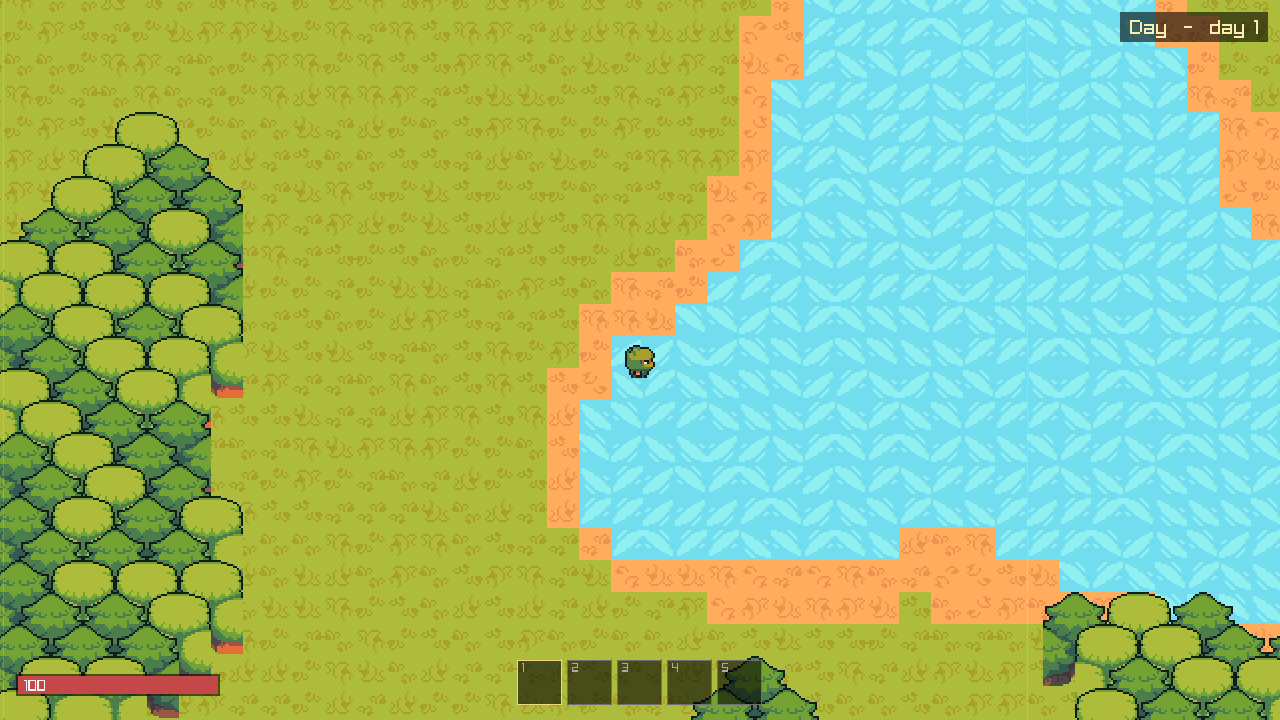
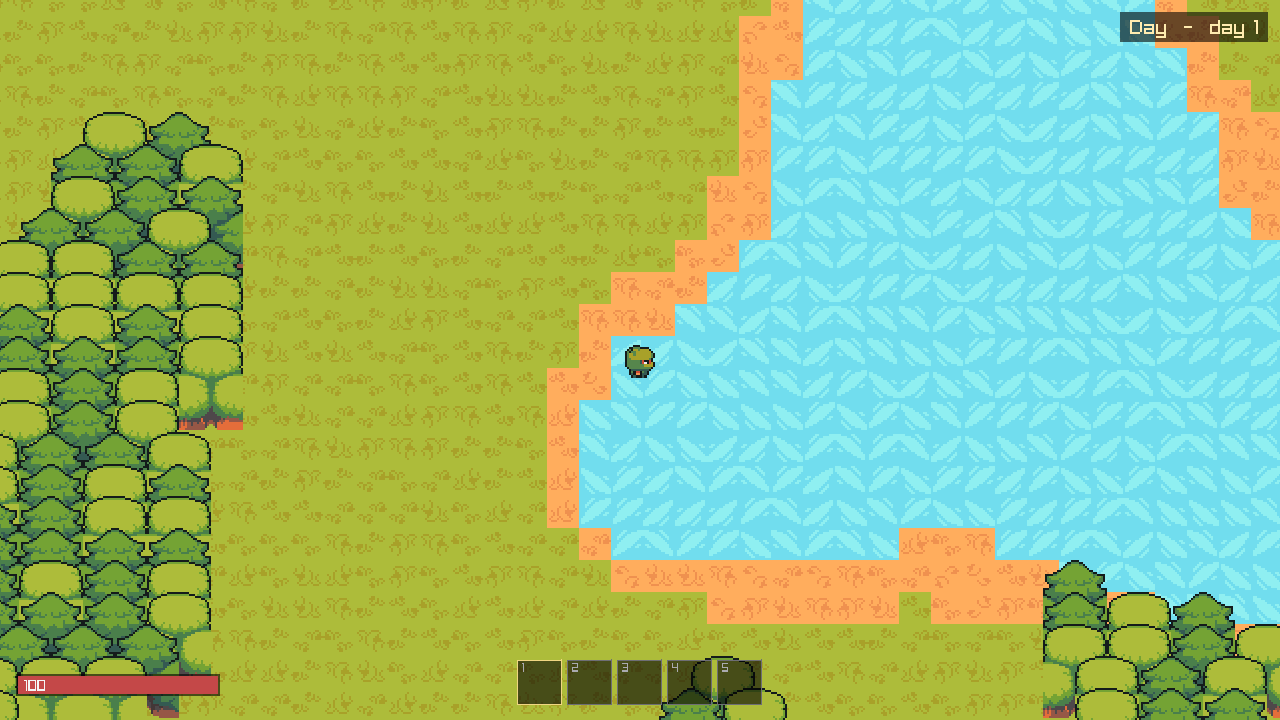
Fix tree placement: a checkerboard is not a left-edge test
Trees are 2 tiles wide and 3 tall, but terrain is per-tile, so a run of tree
tiles has to be resolved into whole trees. The previous rule drew one wherever
`(gx + gy)` was even. That is a checkerboard: trees landed diagonally on top
of each other, and every other tree tile drew nothing at all. Overlapping
canopies and trees sliced in half, exactly as reported.

A tile is now an anchor iff it is a tree and an even number of trees precede
it in its row, so a run of N tree tiles yields floor(N/2) trees that do not
overlap horizontally. Because terrain is a pure function, the test works for
tiles with no chunk view — so the pass runs over the visible rect expanded by
the sprite footprint (2 wide, 3 tall) and a tree anchored just off-screen
still paints the canopy that reaches into view. Previously those were clipped,
which is the other half of the "cut off" look.

Still wrong and not fixed here: the wall and fence are Kenney sprites in a
Ninja Adventure world, and the fence is a free-standing pole chain that does
not join the wall it is supposed to continue. That is the rest of the same
report and needs the building set migrated, not a placement fix.

diff --git a/src/render/raylib_bridge.cpp b/src/render/raylib_bridge.cpp
@@ -49,6 +49,28 @@ namespace {
     return Slot::kTerrainGrass;
 }
 
+// --- Tree placement -------------------------------------------------------------------------------
+// Trees in this pack are 2 tiles WIDE and 3 TALL, but terrain is per-tile, so a run of tree tiles
+// has to be resolved into whole trees. The first attempt drew one wherever `(gx + gy)` was even —
+// that is a CHECKERBOARD, not a left-edge test, so trees landed diagonally on top of each other and
+// every other tree tile drew nothing at all. That is the overlapping-and-sliced look.
+//
+// A tile is an anchor iff it is a tree and an EVEN number of trees precede it in its row, so a run
+// of N tree tiles yields floor(N/2) non-overlapping trees. Terrain is a pure function, so this can
+// be asked about any tile without a chunk view — including tiles just off-screen, which is what
+// stops canopies being clipped at the view edge.
+[[nodiscard]] bool tree_at(std::uint16_t map, int x, int y) {
+    if (x < 0 || y < 0 || x >= kMapTiles || y >= kMapTiles) return false;
+    return terrain_of(kWorldSeed, map, x, y) == Terrain::kTree;
+}
+
+[[nodiscard]] bool tree_anchor(std::uint16_t map, int x, int y) {
+    if (!tree_at(map, x, y)) return false;
+    int run = 0;
+    while (run < 64 && tree_at(map, x - 1 - run, y)) ++run;
+    return (run % 2) == 0;
+}
+
 [[nodiscard]] Anim anim_of(MobKind k) {
     switch (k) {
         case MobKind::kSlime: return Anim::kMobSlime;
@@ -281,32 +303,6 @@ void RaylibBridge::draw(const SnapshotBus& bus, const WorldStatus& status,
                     im.tile(base, gx, gy, WHITE, v & 3);
                 }
             }
-            // Trees, top-down within the chunk so a nearer tree's canopy overlaps the one behind it.
-            for (int ly = 0; ly < kChunkTiles; ++ly) {
-                const int gy = base_y + ly;
-                if (gy < min_ty - 1 || gy > max_ty) continue;
-                for (int lx = 0; lx < kChunkTiles; ++lx) {
-                    const int gx = base_x + lx;
-                    if (gx < min_tx || gx > max_tx) continue;
-                    if (static_cast<Terrain>(v->terrain[ly * kChunkTiles + lx]) != Terrain::kTree) {
-                        continue;
-                    }
-                    // Low bit picks the species, high bit mirrors it: four visually distinct trees
-                    // out of two sprites.
-                    // Only draw a tree on tiles where it is the LEFT of its 2-wide footprint, so
-                    // a run of tree tiles becomes a row of whole trees rather than overlapping
-                    // half-trees.
-                    if (((gx + gy) & 1) != 0) continue;
-                    const int tv = tile_variant(c.map, gx, gy);
-                    im.big((tv & 1) ? Big::kTreePine : Big::kTreeBroad, gx, gy);
-                }
-            }
-
-            // Chunk border — the demo's most important visual. Each outlined square is one actor,
-            // and once the world is distributed each will be labelled with the node hosting it.
-            DrawRectangleLines(base_x * kTilePx, base_y * kTilePx, kChunkTiles * kTilePx,
-                               kChunkTiles * kTilePx, Color{255, 255, 255, 40});
-
             for (const Crop& cr : v->crops) {
                 // Size tracks growth: a seedling is drawn at 45% of a tile, a ripe crop fills it.
                 const float ratio = 0.45f + 0.55f * (static_cast<float>(cr.stage) /
@@ -371,6 +367,17 @@ void RaylibBridge::draw(const SnapshotBus& bus, const WorldStatus& status,
                         m.y * kTilePx, kTilePx * 1.0f);
                 ++drawn_mobs;
             }
+        }
+    }
+
+    // --- Trees ------------------------------------------------------------------------------------
+    // One pass over the whole visible rect rather than per chunk, EXPANDED by the sprite footprint
+    // (2 wide, 3 tall) so a tree anchored just off-screen still paints the canopy that reaches into
+    // view. Row order is top-down, so a nearer tree's canopy overlaps the one behind it.
+    for (int gy = min_ty; gy <= max_ty + 3; ++gy) {
+        for (int gx = min_tx - 2; gx <= max_tx; ++gx) {
+            if (!tree_anchor(player.map, gx, gy)) continue;
+            im.big((tile_variant(player.map, gx, gy) & 1) ? Big::kTreePine : Big::kTreeBroad, gx, gy);
         }
     }
 